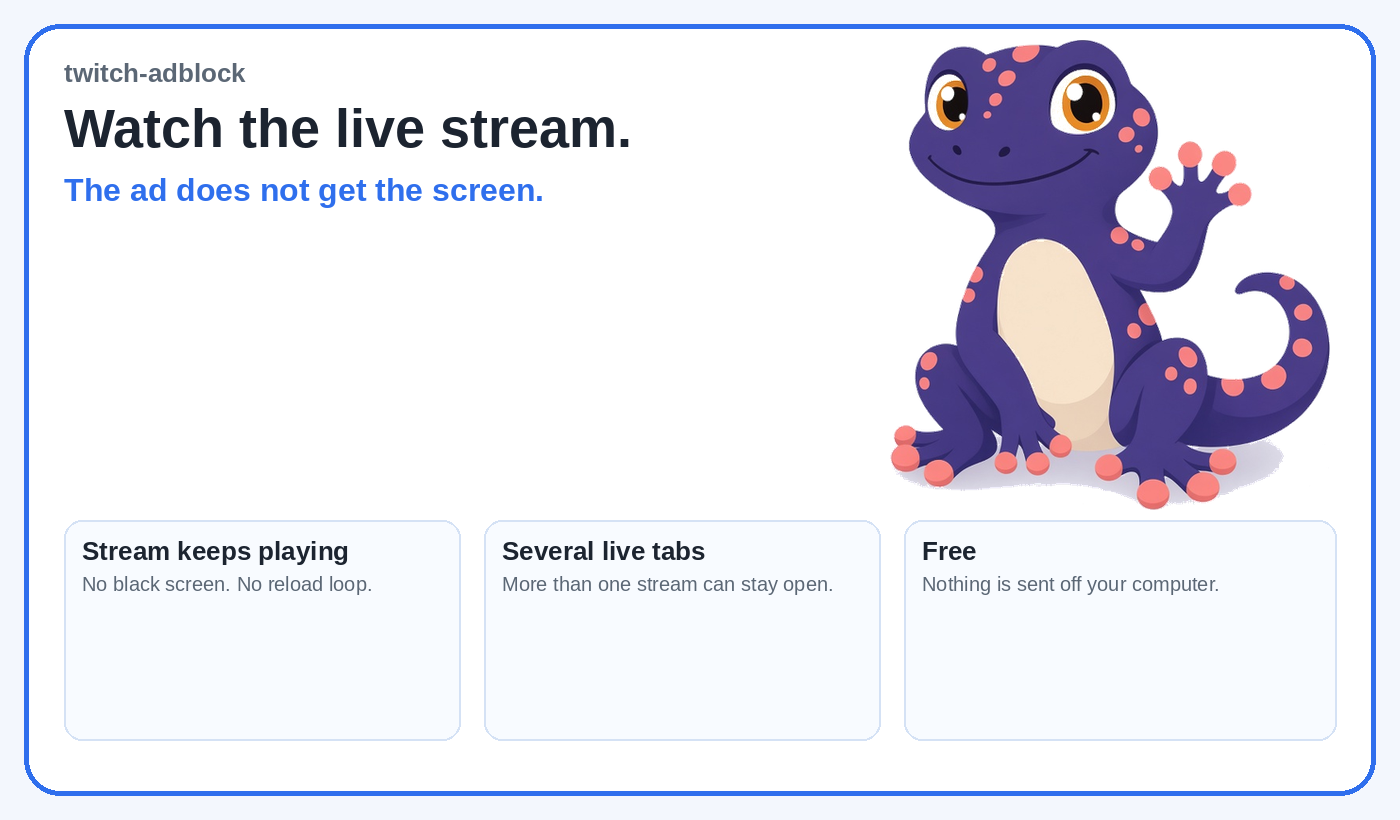
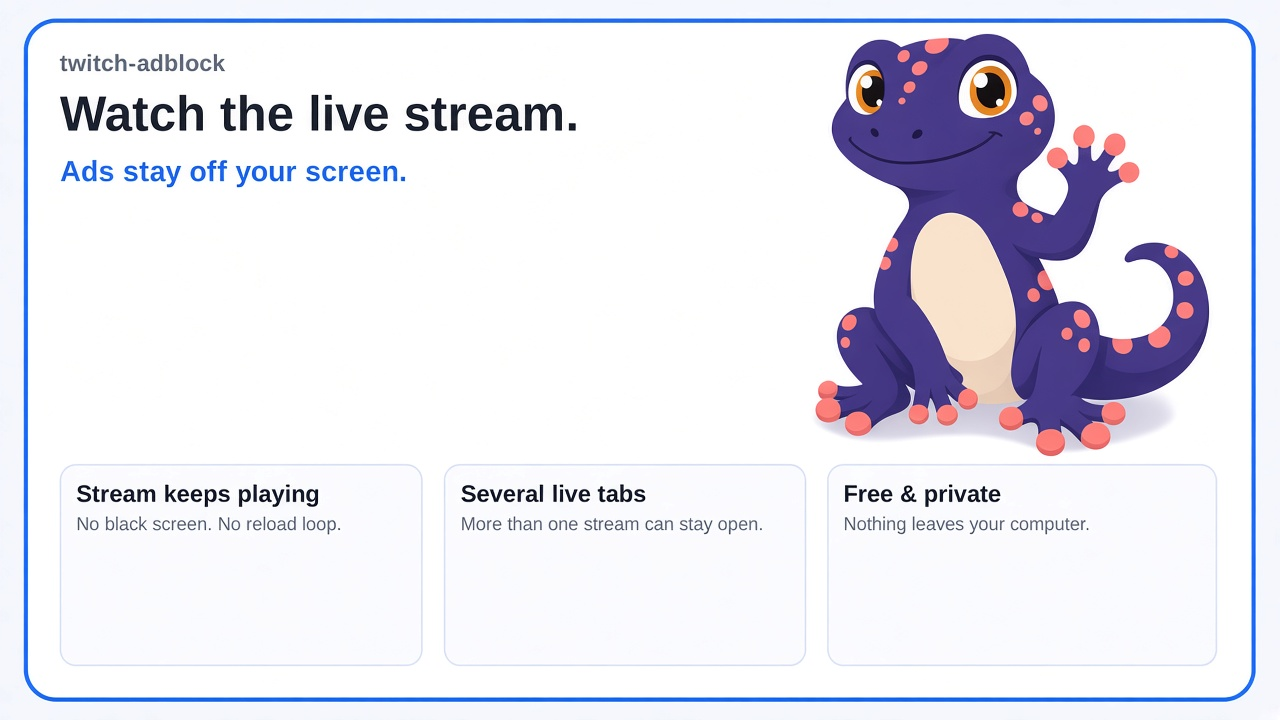
Clarify GitHub page copy and add beginner install guide.
Replace awkward wording with plain English, keep the gecko art, and walk first-time users from the release page through unzip, Load unpacked, and optional Debug on/off.

diff --git a/README.md b/README.md
@@ -1,49 +1,92 @@
 # twitch-adblock
 
-**Watch the live stream. The ad does not get the screen.**
+**Watch the live stream. Ads stay off your screen.**
 
 - The stream keeps playing. No black screen, no reload loop.
 - Works with several live tabs open.
-- Free. No account. Nothing is sent off your computer.
+- Free. No account. Nothing leaves your computer.
 
-<img src="docs/what-it-is.png" width="800" alt="Watch the live stream. The ad does not get the screen. The stream keeps playing, several live tabs can stay open, and nothing is sent off your computer.">
+<img src="docs/what-it-is.png" width="800" alt="Watch the live stream. Ads stay off your screen. The stream keeps playing, several live tabs can stay open, and nothing leaves your computer.">
 
-A Chrome extension that blocks ads on Twitch live streams and YouTube. It is free, runs only in your browser, and sends nothing anywhere.
+A free Chrome extension for Twitch live streams and YouTube. It runs only in your browser and does not send data anywhere.
 
 ## What it does
 
-- **Twitch live:** uses the upstream TwitchAdSolutions video-swap-new script (unmodified). During a midroll it switches to an ad-free backup of the same stream and switches back when the break ends. If no clean backup is available, it lets the ad play instead of freezing your video.
-- **YouTube:** removes player ads and the Sponsored cards on the home page.
-- VODs and clips pass through untouched.
+- **Twitch live:** during a commercial break, it switches to a clean copy of the same stream, then switches back when the break ends. If a clean copy is not available, the ad may play so your video does not freeze.
+- **YouTube:** removes player ads and Sponsored cards on the Home page.
+- VODs and clips are left alone.
 
-## Current stable build: v0.2.3
+## Current build
 
-<img src="docs/whats-new.png" width="800" alt="Current stable build v0.2.3. The toolbar icon is a gecko head. Twitch live uses video-swap-new. YouTube player ads and home Sponsored cards stay. Debug stays off until you turn it on. On a Twitch tab, ON answers and Copy debug includes the log.">
+<img src="docs/whats-new.png" width="800" alt="Current stable build v0.2.3. Gecko toolbar icon. Twitch live swaps to a clean stream during ads. YouTube clears player ads and home Sponsored cards.">
 
-The toolbar icon is a gecko head. Twitch live still uses video-swap-new. YouTube blocking is unchanged.
+The toolbar icon is a gecko head. Twitch and YouTube work as described above.
 
-Debug stays **off** until you turn it on. On a Twitch tab, ON answers the popup and Copy debug includes the log from that tab. The log stays on your device, hides login tokens, and sends nothing out.
+Debug starts **off**. You only need it if something goes wrong (see step 6 below).
 
-Details are in the [v0.2.3 release notes](https://github.com/gecko-of-shadow/twitch-adblock/releases/tag/v0.2.3).
+Full notes: [v0.2.3 release](https://github.com/gecko-of-shadow/twitch-adblock/releases/tag/v0.2.3).
 
-## Install
+## Install (for first-time Chrome installs)
 
-<img src="docs/install-steps.png" width="800" alt="Install the current stable zip: download twitch-adblock-0.2.3.zip, unzip it, open chrome://extensions, turn on Developer mode, and Load unpacked the folder with manifest.json.">
+You do **not** need a GitHub account. You are only downloading a zip and loading it in Chrome like a local app.
+
+### 1. Open the release page
+
+<img src="docs/install/01-open-github.png" width="800" alt="Step 1: Open the GitHub release page.">
+
+Or skip ahead and use the download button in step 2.
+
+### 2. Download the zip
+
+<img src="docs/install/02-download-zip.png" width="800" alt="Step 2: Download the zip under Assets.">
 
 **[Download twitch-adblock-0.2.3.zip](https://github.com/gecko-of-shadow/twitch-adblock/releases/download/v0.2.3/twitch-adblock-0.2.3.zip)**
 
-1. Download the zip above and unzip it.
-2. Open `chrome://extensions` and turn on **Developer mode**.
-3. Click **Load unpacked** and pick the folder that holds `manifest.json`.
-4. Turn off other Twitch or YouTube ad blockers and scripts while this is loaded. Two ad scripts on one page can freeze the video.
+On the release page, the file is also listed under **Assets**.
 
-## Found a problem?
+### 3. Unzip the folder
 
-<img src="docs/found-a-problem.png" width="800" alt="Found a problem? Open the extension popup, check that Debug is ON, click Copy debug, and paste it into a GitHub issue.">
+<img src="docs/install/03-unzip.png" width="800" alt="Step 3: Unzip the download and keep the folder.">
+
+- Windows: right-click the zip → **Extract All…**
+- Mac: double-click the zip
+
+Keep the folder that appears. Do not delete it after install — Chrome reads the extension from that folder.
+
+### 4. Open Chrome Extensions
+
+<img src="docs/install/04-extensions.png" width="800" alt="Step 4: Open chrome://extensions and turn on Developer mode.">
+
+1. Open a new tab and go to `chrome://extensions`
+2. Turn on **Developer mode** (top right)
+
+### 5. Load unpacked
+
+<img src="docs/install/05-load-unpacked.png" width="800" alt="Step 5: Click Load unpacked and pick the folder with manifest.json.">
+
+1. Click **Load unpacked**
+2. Choose the unzipped folder (the one that contains `manifest.json`)
+3. You should see twitch-adblock in the list, with the gecko icon
+
+Turn off other Twitch or YouTube ad blockers while this is loaded. Two ad blockers on the same page can freeze the video.
+
+### 6. Debug (optional)
+
+<img src="docs/install/06-debug.png" width="800" alt="Step 6: Debug starts off. Turn it on only if you need a log.">
+
+Debug starts **OFF**. Leave it off for normal watching.
+
+If something looks wrong:
+
+1. Click the gecko icon in Chrome to open the popup
+2. Turn **Debug** ON
+3. Click **Copy debug**
+4. Paste that text into a [GitHub issue](https://github.com/gecko-of-shadow/twitch-adblock/issues)
+
+The log stays on your computer until you copy it. Nothing is sent automatically. Turn Debug **OFF** again when you are done.
 
 ## Notes
 
-- Backup swaps can change the picture quality briefly. Playback should keep going.
+- Picture quality can dip briefly during a Twitch ad break. Playback should keep going.
 - Ads already baked into a YouTube video file still play.
-- Older builds stay on the [releases page](https://github.com/gecko-of-shadow/twitch-adblock/releases) if you need to go back.
 - Development: `deno test --no-lock test/` · `bash scripts/release-gate.sh` · `bash scripts/pack-zip.sh`

diff --git a/CHANGELOG.md b/CHANGELOG.md
@@ -2,7 +2,7 @@
 
 ## 0.2.3
 
-- On a Twitch tab, ON answers the popup. Copy debug includes the log from that tab, including the on-screen blocking label when it is showing.
+- On a Twitch tab, the popup answers correctly when the extension is on. Copy debug includes the log from that tab, including the on-screen blocking label when it is showing.
 - Debug stays off until you turn it on. Opening the popup does not turn it on.
 - Twitch live still uses upstream video-swap-new. YouTube ad stripping stays.
 
